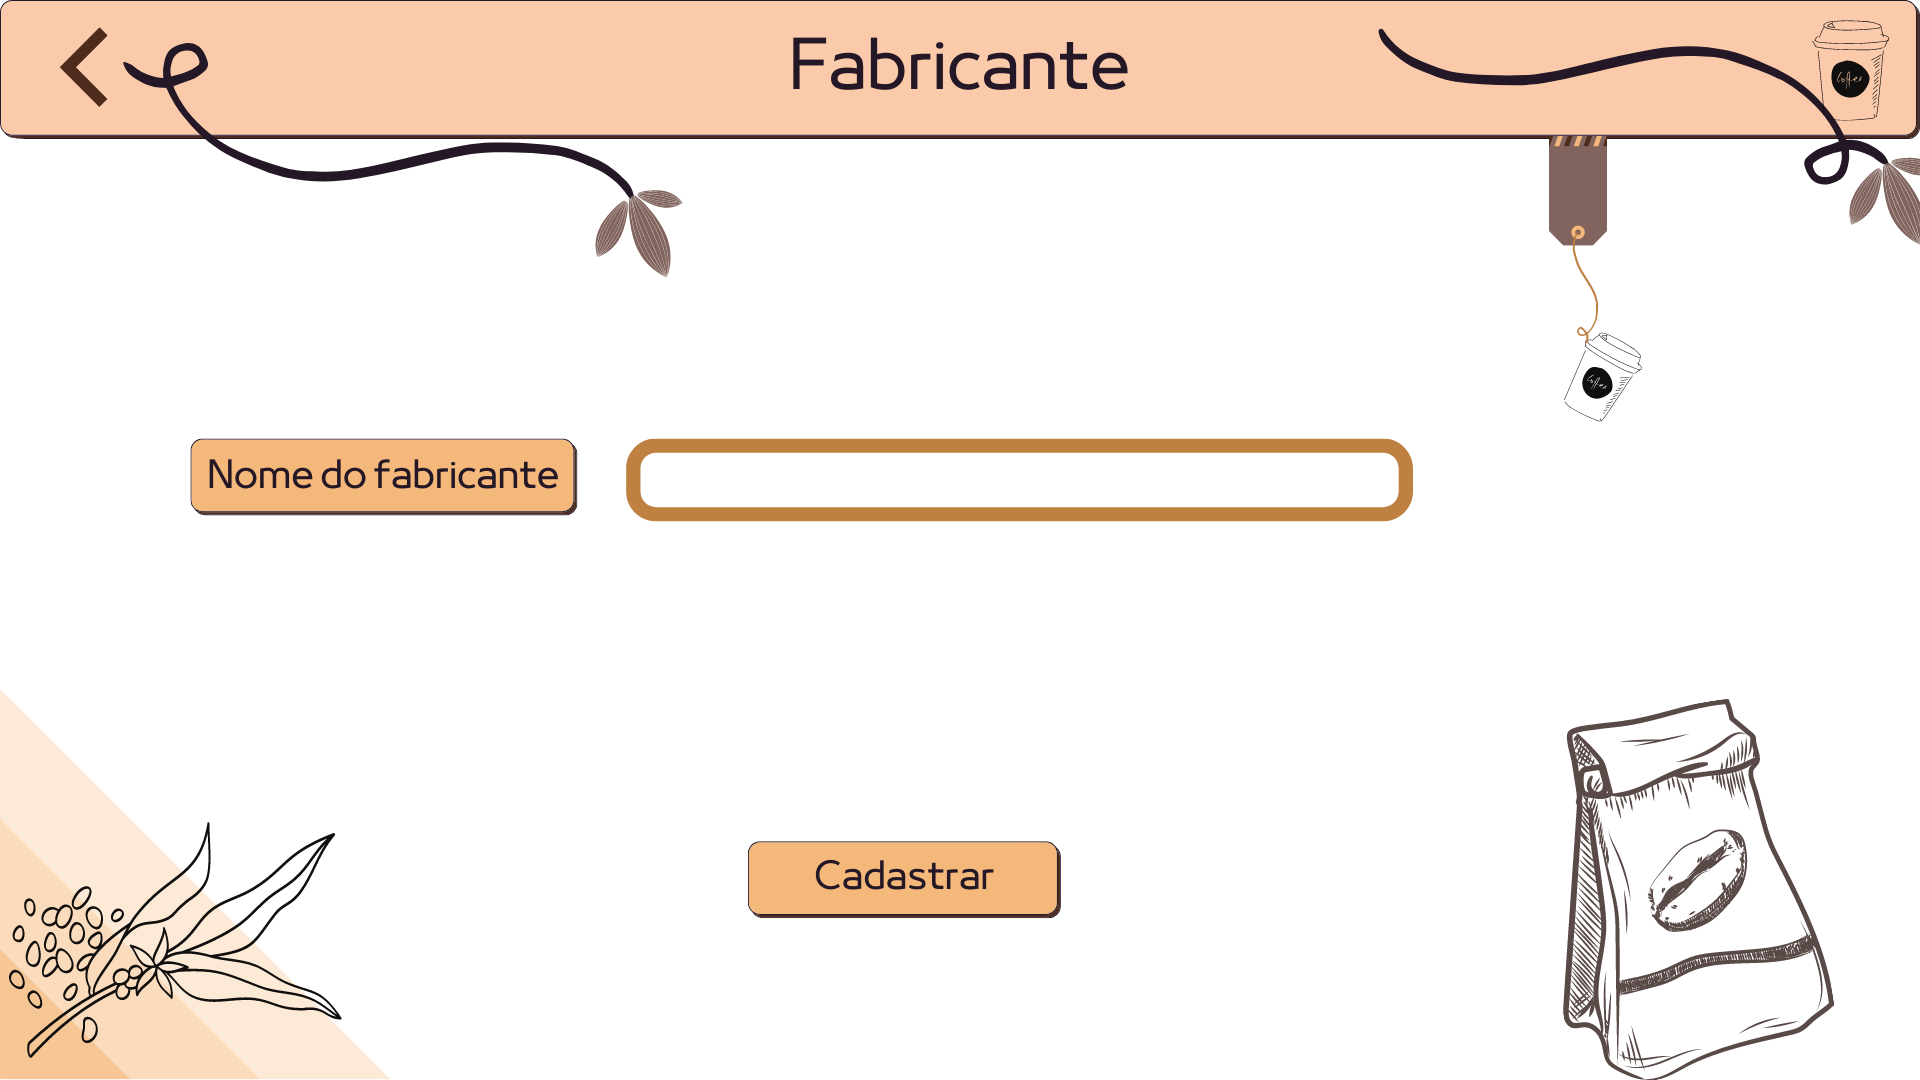
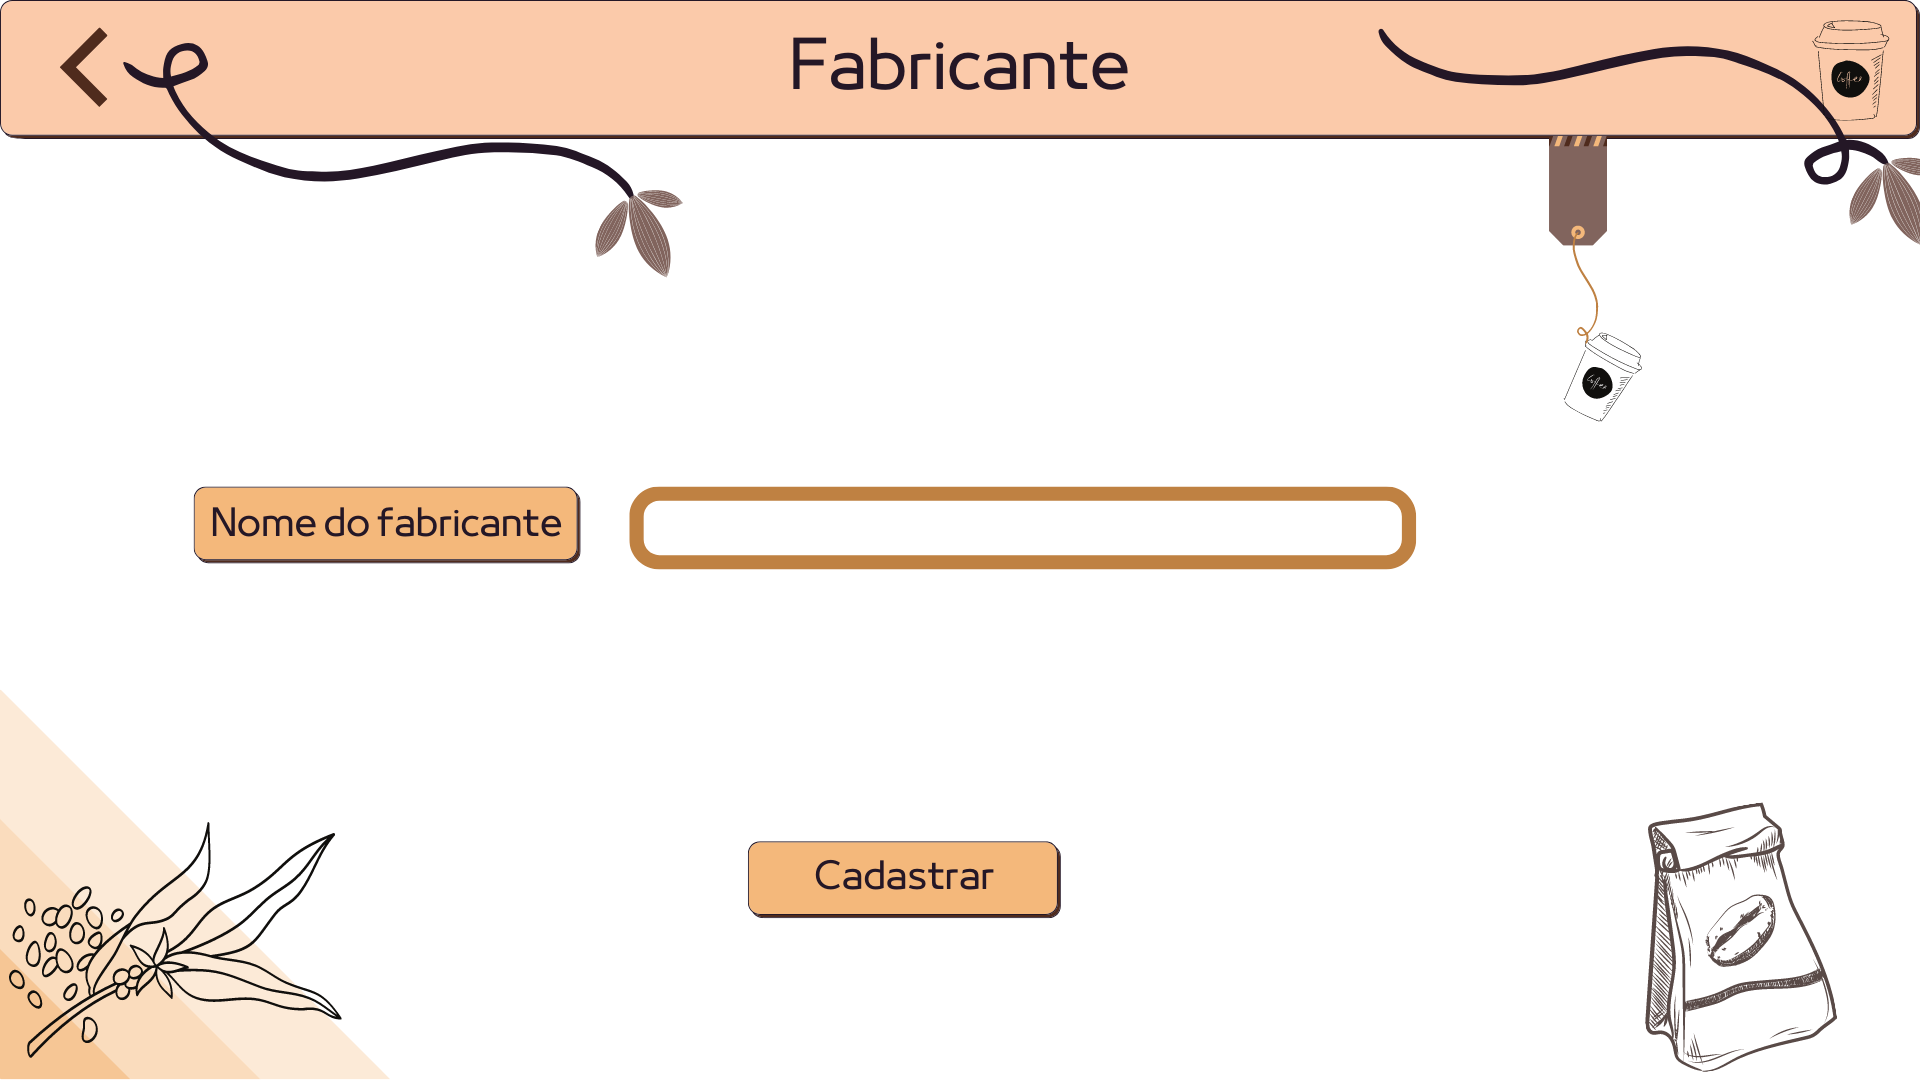
project coffe

Changed region(s): [[0.0938, 0.3972, 0.75, 0.55], [0.8125, 0.6417, 0.9688, 1.0]]

diff --git a/Projeto-Coffe bão/tkinter_main.py b/Projeto-Coffe bão/tkinter_main.py
@@ -1,11 +1,11 @@
 
+
+
+
 from dataclasses import field
-from email.mime import image
-from math import fabs
 from tkinter import *
-from tkinter import messagebox
-from time import *
-from turtle import color
+
+
 
 
 from class_compra import *
@@ -14,8 +14,7 @@ from db_estoque import *
 from class_fabric import *
 from class_venda import *
 
-from setuptools import Command
-from img import *
+
 import posiciona
 
 
@@ -260,12 +259,16 @@ backg2 = PhotoImage(file="img/lmenu.png")
 back2 = Label(f2,image=backg2)
 back2.pack()
 
-cadProd = PhotoImage(file='img/prodbt1.png')
+cadProd = PhotoImage(file='img/botao_produto.png')
 
 prodbt = Button(f2,image=cadProd,bd=0,command=cadWindow)
-prodbt.place(width=420, height=124, x=155, y=344)
+prodbt.place(width=422, height=122, x=153, y=344)
 
 
+botao_voltar = PhotoImage(file='img/voltar.png')
+
+voltar = Button(f2, image=botao_voltar, bd=0, command=lambda: [f1.pack(), f2.pack_forget()])
+voltar.place(width=62, height=89, x=53, y=23)
 
 fabt = PhotoImage(file="img/fabricbt1.png")
 
@@ -275,7 +278,7 @@ fabrbt.place(width=420, height=124,x=706, y=343)
 schbt = PhotoImage(file='img/searchbt1.png')
 
 searchbt = Button(f2,image=schbt,bd=0,command=searchw)
-searchbt.place(width=420, height=124, x=1294, y=343)
+searchbt.place(width=422, height=124, x=1274, y=344)
 
 
 altrbt = PhotoImage(file="img/alterprodbt1.png")
@@ -297,14 +300,28 @@ delbt.place(width=420, height=124, x=1021, y=592)
 f3 = Frame(app)
 
 backg3 = PhotoImage(file="img/cadProdt.png")
-
+cadastrar = PhotoImage(file='img/cadastrar.png')
 
 back3 = Label(f3,image=backg3)
 back3.pack() 
 
+voltar = Button(f3, image=botao_voltar, bd=0, command=lambda: [f2.pack(), f3.pack_forget()])
+voltar.place(width=62, height=89, x=53, y=23)
 
+botao_cadastrar = Button(f3, image=cadastrar, bd=0)
+botao_cadastrar.place(width=327, height=70, x=733, y=843)
 
+desc = Entry(f3, bd=0)
+desc.config(font='Arieal 20')
+desc.place(width=742, height=45, x=578, y=376)
 
+cod = Entry(f3, bd=0)
+cod.config(font='Arieal 20')
+cod.place(width=742, height=45, x=578, y=500)
+
+quant = Entry(f3, bd=0)
+quant.config(font='Arieal 20')
+quant.place(width=742, height=45, x=578, y=626)
 
 #========= = = ============================= = =======[]
 #========= =      =FRAME 4                        = =======[]
@@ -315,12 +332,18 @@ f4 = Frame(app)
 
 backg4 = PhotoImage(file='img/cadFabr.png')
 
-
 back4 = Label(f4,image=backg4)
 back4.pack()
 
+voltar = Button(f4, image=botao_voltar, bd=0, command=lambda: [f2.pack(), f4.pack_forget()])
+voltar.place(width=62, height=89, x=53, y=23)
 
+botao_cadastrar = Button(f4, image=cadastrar, bd=0)
+botao_cadastrar.place(width=335, height=77, x=738, y=842)
 
+fabr = Entry(f4, bd=0)
+fabr.config(font='Arieal 20')
+fabr.place(width=742, height=45, x=654, y=505)
 
 
 #========= = = ============================= = =======[]
@@ -337,6 +360,21 @@ back5 = Label(f5,image=backg5)
 back5.pack()
 
 
+imgsearch = PhotoImage(file='img/codigo_produtobt.png')
+
+
+voltar = Button(f5, image=botao_voltar, bd=0, command=lambda: [f2.pack(), f5.pack_forget()])
+voltar.place(width=62, height=89, x=53, y=23)
+
+
+
+
+procbt = Button(f5,image=imgsearch,bd=0)
+procbt.place(width=380, height=75, x=226, y=335)
+
+proc = Entry(f5, bd=0)
+proc.config(font='Arieal 20')
+proc.place(width=742, height=45, x=679, y=356)
 
 
 #========= = = ============================= = =======[]
@@ -348,23 +386,46 @@ f6 = Frame(app)
 
 backg6 = PhotoImage(file='img/alter.png')
 
+alterar = PhotoImage(file='img/alterar.png')
+
 
 back6 = Label(f6,image=backg6)
 back6.pack()
 
+voltar = Button(f6, image=botao_voltar, bd=0, command=lambda: [f2.pack(), f6.pack_forget()])
+voltar.place(width=62, height=89, x=53, y=23)
+
+botao_alterar = Button(f6, image=alterar, bd=0)
+botao_alterar.place(width=313, height=74, x=747, y=841)
+
+codp = Entry(f6, bd=0)
+codp.config(font='Arieal 20')
+codp.place(width=742, height=45, x=649, y=461)
+
+descp = Entry(f6, bd=0)
+descp.config(font='Arieal 20')
+descp.place(width=742, height=45, x=649, y=590)
 
 #========= = = ============================= = =======[]
 #========= =      =FRAME 7                         = =======[]
 #========= = = ============================= = =======[]
 f7 = Frame(app)
 
+backg7 = PhotoImage(file='img/excluir.png')
 
-backg7 = PhotoImage(file='img/delprod.png')
+excluirimg = PhotoImage(file='img/excluirBt.png')
 
-
-back7 = Label(f7,image=backg7)
+back7 = Label(f7, image=backg7)
 back7.pack()
 
+voltar = Button(f7, image=botao_voltar, bd=0, command=lambda: [f2.pack(), f7.pack_forget()])
+voltar.place(width=62, height=89, x=53, y=23)
 
+botao_excluir = Button(f7, image=excluirimg, bd=0)
+botao_excluir.place(width=315, height=77, x=746, y=838)
+
+excluir = Entry(f7, bd=0)
+excluir.config(font='Arieal 20')
+excluir.place(width=742, height=45, x=648, y=460)
 
 app.mainloop()
